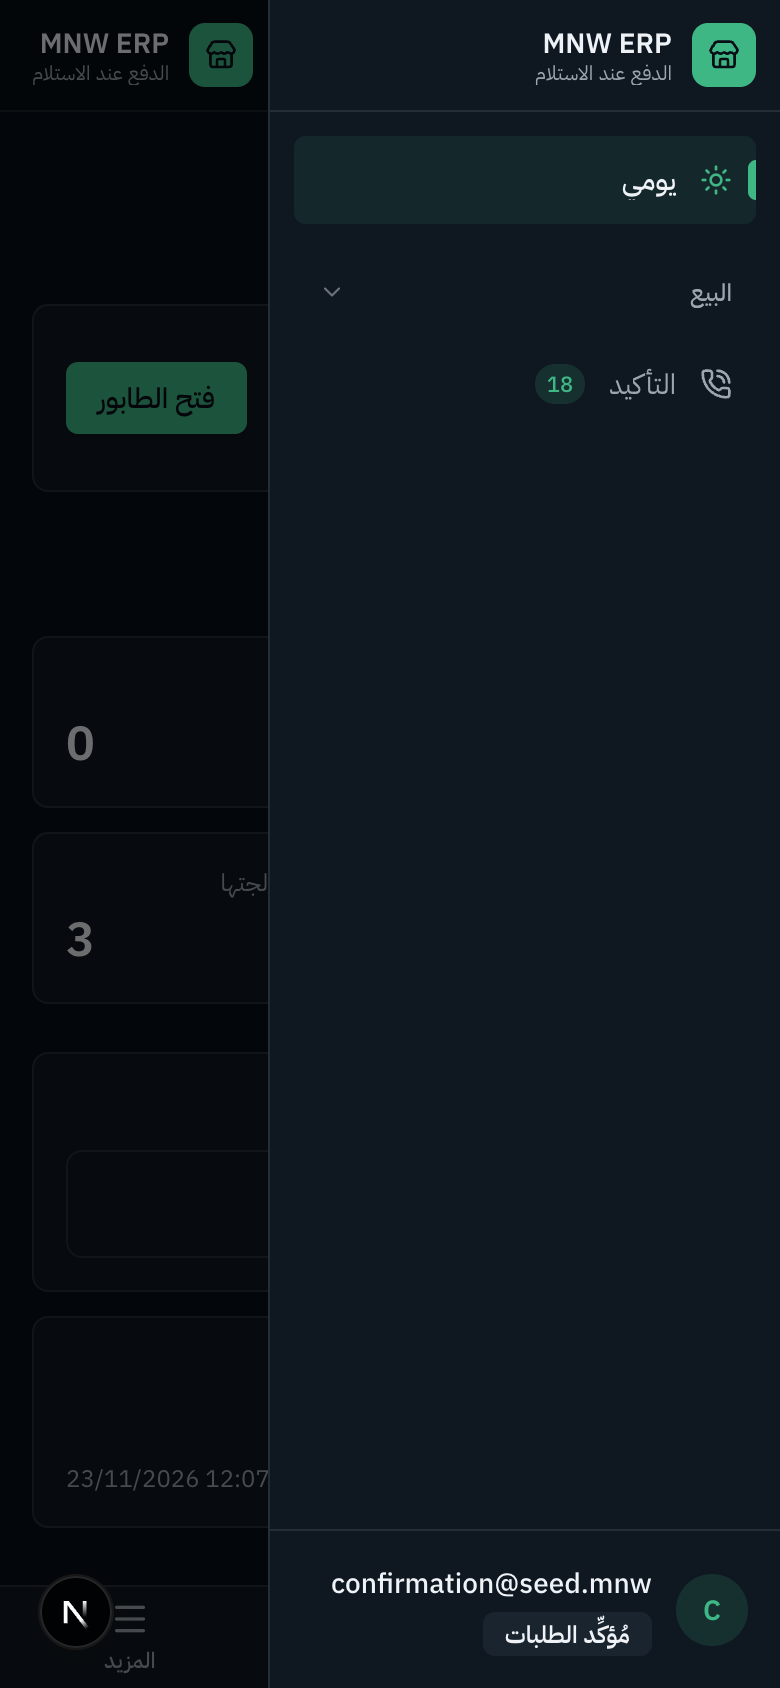
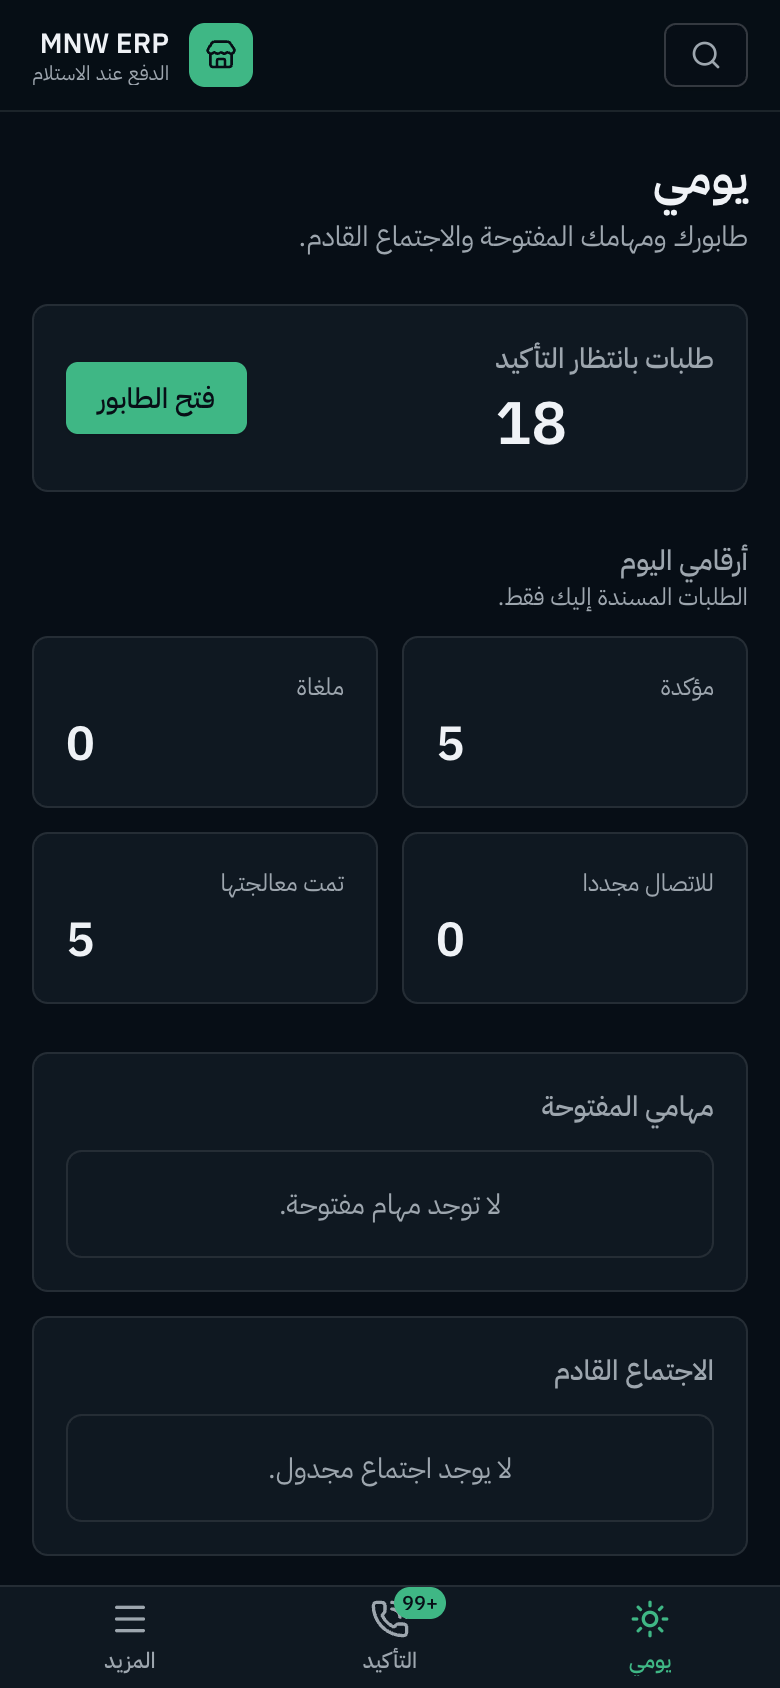
NAV-5-G: review-1 fixes (re-shot orders, empty My day, 99+, scrolled shot)

diff --git a/PROGRESS.md b/PROGRESS.md
@@ -811,9 +811,10 @@ StatusPill renders the default label as sr-only text for an emoji-only override 
 - Owner: screenshots at 390 px (light/dark, EN/AR) not taken in this run; owed via NAV-5-G; 768 px overflow not re-measured live.
 - Next: NAV-5-G.
 
-## NAV-5-G — NAV-5 screenshots at 390 px (2026-11-20) — DONE (screenshots), real phone owed
+## NAV-5-G — NAV-5 screenshots at 390 px (2026-11-20) — screenshots done, awaiting review (not DONE until review passes)
 - Done: chrome-devtools emulation, local stack, seed users. Shots in `docs/design/audit/NAV-5/g-*`: admin dashboard + orders + More drawer, confirmation agent My day + More, delivery agent My day; each 390 px, EN+AR, light+dark. 1280 px admin and delivery: bottom bar `display:none`. 768 px AR and 844x390 landscape AR: bar hidden (md breakpoint = 768), sidebar shown, page scrollWidth == viewport (only the orders table scrolls inside its own wrapper), so no page overflow.
-- Measured: header 56 px; bar items 51 px high, 78 px wide (admin); last content bottom 764 px < bar top 792 px; AR bar order mirrored; "99+" badge fits inside its link; viewport meta is `width=device-width, initial-scale=1` (no viewport-fit); no hardcoded-color look in either theme. Defects: none, clean. No code changed.
-- Not covered: empty My day (no seed user lacks the seeded meeting; tasks-empty state is shown), populated confirmation tasks. Dev-tools "N" badge overlaps the first bar item in shots (dev-only).
+- Review-1 fixes: `g-admin-orders-ar-dark-390.png` re-shot (header, filters, table, bar visible). Empty My day (confirmation agent, tasks empty + no planned meeting) shot EN/AR x light/dark: `g-conf-myday-empty-*-390.png`; produced locally by setting the one planned seed meeting to `cancelled` for the shoot, then restored to `planned`. `g-conf-badge99-{ar,en}-dark-390.png` are DOM text overrides ("18" -> "99+", real count was 18, no 100 orders seeded); badge box 197-223 px sits inside its link 130-260 px. The "99+" cap logic itself is covered by the unit test, not by data. Scrolled-to-end shot `g-conf-myday-scrolled-end-en-dark-390.png`: last card ends above the bar (other roles: numeric check only, 764 < 792). The Next dev "N" overlay was hidden by CSS in the re-shot files only; older g-* shots still show it (dev-only).
+- Measured: header 56 px; bar items 51 px high, 78 px wide (admin); last content bottom 764 px < bar top 792 px; AR bar order mirrored; viewport meta is `width=device-width, initial-scale=1` (no viewport-fit); no hardcoded-color look in either theme. Defects: none, clean. No code changed.
+- Not covered: populated confirmation tasks (no seed tasks). Thin coverage at 1280/768/844x390 (one AR dark shot each).
 - Real iPhone/Android check NOT done (no device) and stays owner-owed, incl. keyboard-open bar. Review-1 low #9 (iOS bottom padding 0 without `cover`) stays open per D87.
 - Flag: D87 item 7 (no-role/inactive redirect loop, risk H) has no plan row; owner/decide to confirm.
